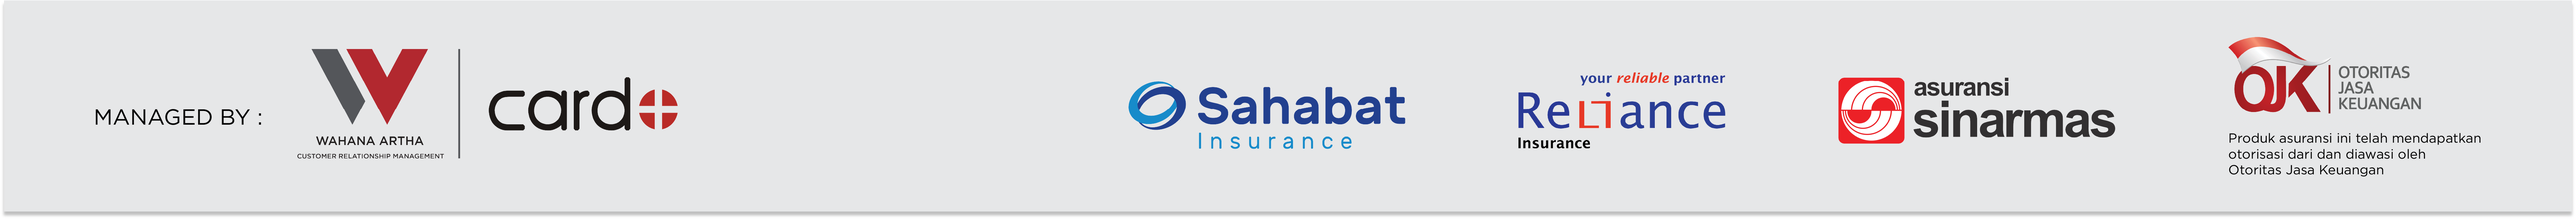
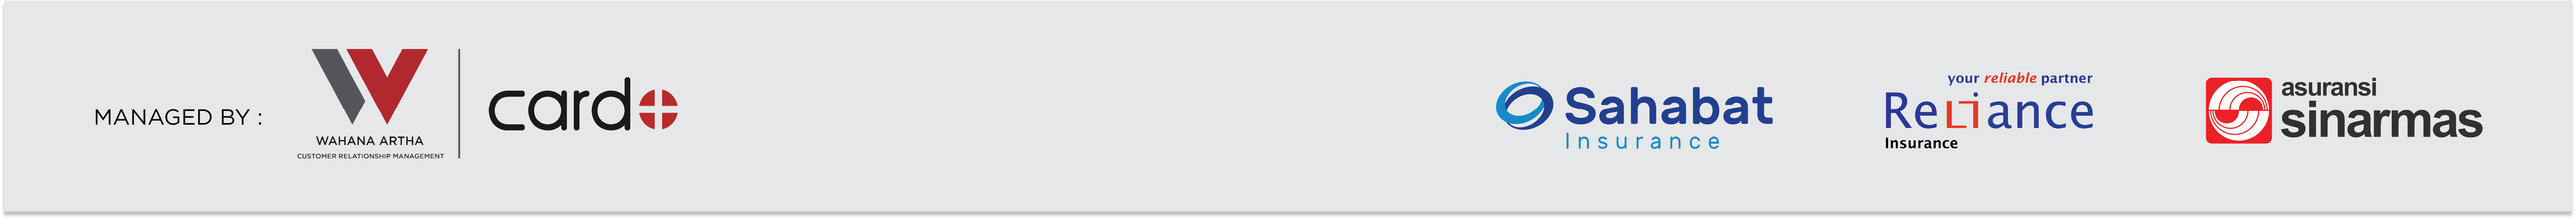
fix

Changed region(s): [[0.4361, 0.1515, 0.9657, 0.7273], [0.4673, 0.6061, 0.5296, 0.697], [0.8723, 0.7576, 0.9346, 0.7879]]

diff --git a/src/app/page.jsx b/src/app/page.jsx
@@ -104,7 +104,7 @@ export default function Home() {
               <p className="text-[8.5vw] font-bold text-red-700">50.000-an</p>
             </motion.div>
             <div className="h-auto w-[37vw] sm:w-[240px] md:w-[280px] left-[10px] top-[23vw] fixed z-10">
-              <a className="cursor-pointer" href="https://wa.me/6282124744961">
+              <a className="cursor-pointer" href="https://wa.me/6281113703810?text=%2ANama%3A%2A%0A%2ADomisili%3A%2A%0A%2ANo%20Hp%20Aktif%3A%2A%0A%2AMerk%3A%2A%0A%2AType%3A%2A%0A%2ATahun%3A%2A%0A%2AMobil%2FMotor%3A%2A%0A%2ATerimakasih%2A">
                 <Image
                   src={"/images/lpasuransi/Button_Penawaran.png"}
                   alt="illustrasi-1"
@@ -163,7 +163,7 @@ export default function Home() {
                 <p className="text-[5.5vw] font-bold text-red-700">50.000-an</p>
               </motion.div>
               <div className="h-auto w-[37vw] sm:w-[240px] md:w-[280px] left-[30px] top-[23vw] fixed z-10">
-                <a className="cursor-pointer" href="https://wa.me/6282124744961">
+                <a className="cursor-pointer" href="https://wa.me/6281113703810?text=%2ANama%3A%2A%0A%2ADomisili%3A%2A%0A%2ANo%20Hp%20Aktif%3A%2A%0A%2AMerk%3A%2A%0A%2AType%3A%2A%0A%2ATahun%3A%2A%0A%2AMobil%2FMotor%3A%2A%0A%2ATerimakasih%2A">
                   <Image
                     src={"/images/lpasuransi/Button_Penawaran.png"}
                     alt="illustrasi-1"
@@ -288,41 +288,31 @@ export default function Home() {
         {/* footer */}
         {windowWidth < 768 && (
           <footer className="w-full h-auto bg-slate-200 grid grid-cols-12 px-8 py-4">
-            <div className="h-full col-span-3 flex items-center">
+            <div className="h-full col-span-4 flex items-center">
               <Image
                 src={"/images/lpasuransi/footer/Footer_Reliance.png"}
                 alt="illustrasi-1"
                 width={0}
                 height={0}
                 sizes="100vw"
-                style={{ width: "100%", height: "auto" }}
+                style={{ width: windowWidth < 640 ? "100%" : "90%", height: "auto" }}
               />
             </div>
-            <div className="h-full flex items-center col-span-4">
+            <div className="h-auto col-span-1"></div>
+            <div className="h-full flex items-center col-span-5">
               <Image
                 src={"/images/lpasuransi/footer/Footer_Sinarmas.png"}
                 alt="illustrasi-1"
                 width={0}
                 height={0}
                 sizes="100vw"
-                style={{ width: "100%", height: "auto" }}
+                style={{ width: windowWidth < 640 ? "100%" : "90%", height: "auto" }}
                 className="ml-6"
-              />
-            </div>
-            <div className="h-auto col-span-2"></div>
-            <div className="h-auto col-span-3">
-              <Image
-                src={"/images/lpasuransi/footer/Footer_OJK.PNG"}
-                alt="illustrasi-1"
-                width={0}
-                height={0}
-                sizes="100vw"
-                style={{ width: "100%", height: "auto" }}
               />
             </div>
           </footer>
         )}
-        {windowWidth > 768 && (
+        {windowWidth >= 768 && (
           <footer className="w-full h-auto">
             <Image
               src={"/images/lpasuransi/footer/Footer desktop.png"}
